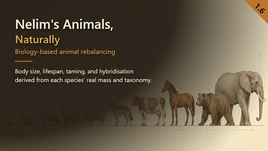
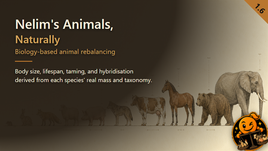
feat: composite the cut-out ModIcon onto Preview.png, add the 00- gallery copy
Owner's rule (PUBLISHING.md, 2026-09-29): the Preview now carries the
ModIcon, background flood-filled out (Art/cutout-icon.cjs, never
touching the icon's own outline, never regenerating the icon file
itself), bottom-right corner at -15deg since top-right already holds
the version badge. render-preview.cjs now also keeps
Art/steam/00-Preview.png as a byte copy of the Preview whenever it
regenerates, so the two never diverge silently.

Changed region(s): [[0.8358, 0.7152, 1.0, 1.0]]

diff --git a/Art/preview.html b/Art/preview.html
@@ -22,6 +22,10 @@ p { width: 460px; font-size: 20px; font-weight: 400; line-height: 1.45; letter-s
 .version { position: absolute; left: 869px; top: 27px;
   transform: translate(-50%,-50%) rotate(45deg); color: var(--badgeInk);
   font-size: 26px; font-weight: 700; line-height: 1; }
+/* Owner's rule, 2026-09-29 (PUBLISHING.md): ModIcon, cut out, bottom-right corner is -15deg tilt.
+   Top-right already carries the version badge, so bottom-right is the open corner here. */
+.icon { position: absolute; right: -14px; bottom: -14px; width: 150px; height: 150px;
+  transform: rotate(-15deg); filter: drop-shadow(0 4px 10px rgba(0,0,0,.55)); }
 </style>
 <div class="frame">
   <div class="veil"></div>
@@ -32,6 +36,7 @@ p { width: 460px; font-size: 20px; font-weight: 400; line-height: 1.45; letter-s
     <p>Body size, lifespan, taming, and hybridisation derived from each species' real mass and taxonomy.</p>
   </div>
   <div class="badge"></div><div class="version"></div>
+  <img class="icon" src="ModIcon-cutout.png" alt="">
 </div>
 <script>
 window.previewReady = (async () => {

diff --git a/docs/runs/history.md b/docs/runs/history.md
@@ -13,3 +13,4 @@ Newest last. Evidence stays in Tests/Pickle/Evidence/ (ignored by git).
 - 2026-09-29 steamcmd re-download of Some Like It Rotten and Zoology, diffed against the Windows Workshop folder: byte-identical, corruption ruled out. Stall cause still open.
 - 2026-09-29 Tests/Test-Xml.ps1 created (offline XML patch-target tests, no game): PASS, 10 patch files, About.xml contract, bare/no-dependency/VEF fixtures, absent-mod safety.
 - 2026-09-29 packageId renamed nelim.animalrebalance -> nelim.animalsnaturally (matches the current mod/folder name, done before any Workshop publication so no save/item compatibility to preserve). About.xml, STATUS.md, the Pickle companion (now nelim.animalsnaturally.pickletests) and its five feature files, and Tests/Test-Xml.ps1's own contract check all updated. Tests/Test-Xml.ps1 rerun: PASS.
+- 2026-09-29 Preview.png regenerated with ModIcon composited (Art/cutout-icon.cjs, flood-fill, bottom-right -15deg, owner's rule); Art/steam/00-Preview.png created as its byte copy. QA: 529070 bytes, contrast unchanged for text (h1 12.84, .suffix 6.96, .tag 6.78, p 9.89, .version 5.04).

diff --git a/STATUS.md b/STATUS.md
@@ -34,7 +34,8 @@ remaining:
   - resolved 2026-09-28: values the patches write, run fd90/valeurs, 11/11 applicable scenarios passed with PickleTools' DefFields companion (Horse baseBodySize 1.926, gestationPeriodDays 24.17, first game run of this companion)
   - pending: executed results for every conditional scenario (3 passes requested 2026-09-28), then read reports, before tested
   - resolved 2026-09-29: Doublons.xml removal logic proven offline (Tests/Test-Xml.ps1, SCWelshCorgi/TemperateForest synthetic fixture: wildBiomes and wildAnimals entry both removed); dozens of other packs still unstaged in Tests/Pickle/ (see TESTING.md "What is not covered")
-updated: 2026-09-28
+  - resolved 2026-09-29: Preview.png now carries the cut-out ModIcon, bottom-right corner, -15deg (owner's rule, PUBLISHING.md); Art/steam/00-Preview.png kept as a byte copy by render-preview.cjs. No Gallery images beyond 00- exist yet: this mod has no @review/@film Pickle scenario to source them from.
+updated: 2026-09-29
 ---
 
 # Nelim's Animals, Naturally — status
